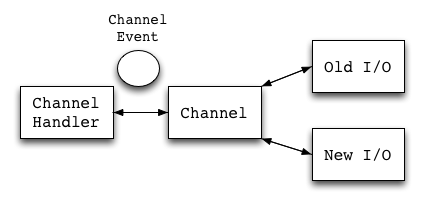
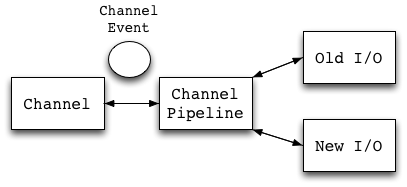
update image

Changed region(s): [[0.0, 0.0267, 1.0, 0.9626]]

diff --git a/ch3-pipeline.md b/ch3-pipeline.md
@@ -8,6 +8,9 @@ Pipeline是netty中比较有特色的一个部分。
 
 首先handler分为Upstream和Downstream两类。然后每个handler会接收到一个事件，如果需要继续处理，那么**它会发起一个事件**，这个事件只有它之后的handler会接收到。**如果它不再发起事件，那么处理就到此结束。**
 
-![channel pipeline][1]
+![universal API][1]
 
-  [1]: http://static.oschina.net/uploads/space/2013/1022/115030_XzuA_190591.png
+![channel pipeline][2]
+
+  [1]: http://static.oschina.net/uploads/space/2013/1108/234357_DeN0_190591.png
+  [2]: http://static.oschina.net/uploads/space/2013/1108/234411_gvSE_190591.png
